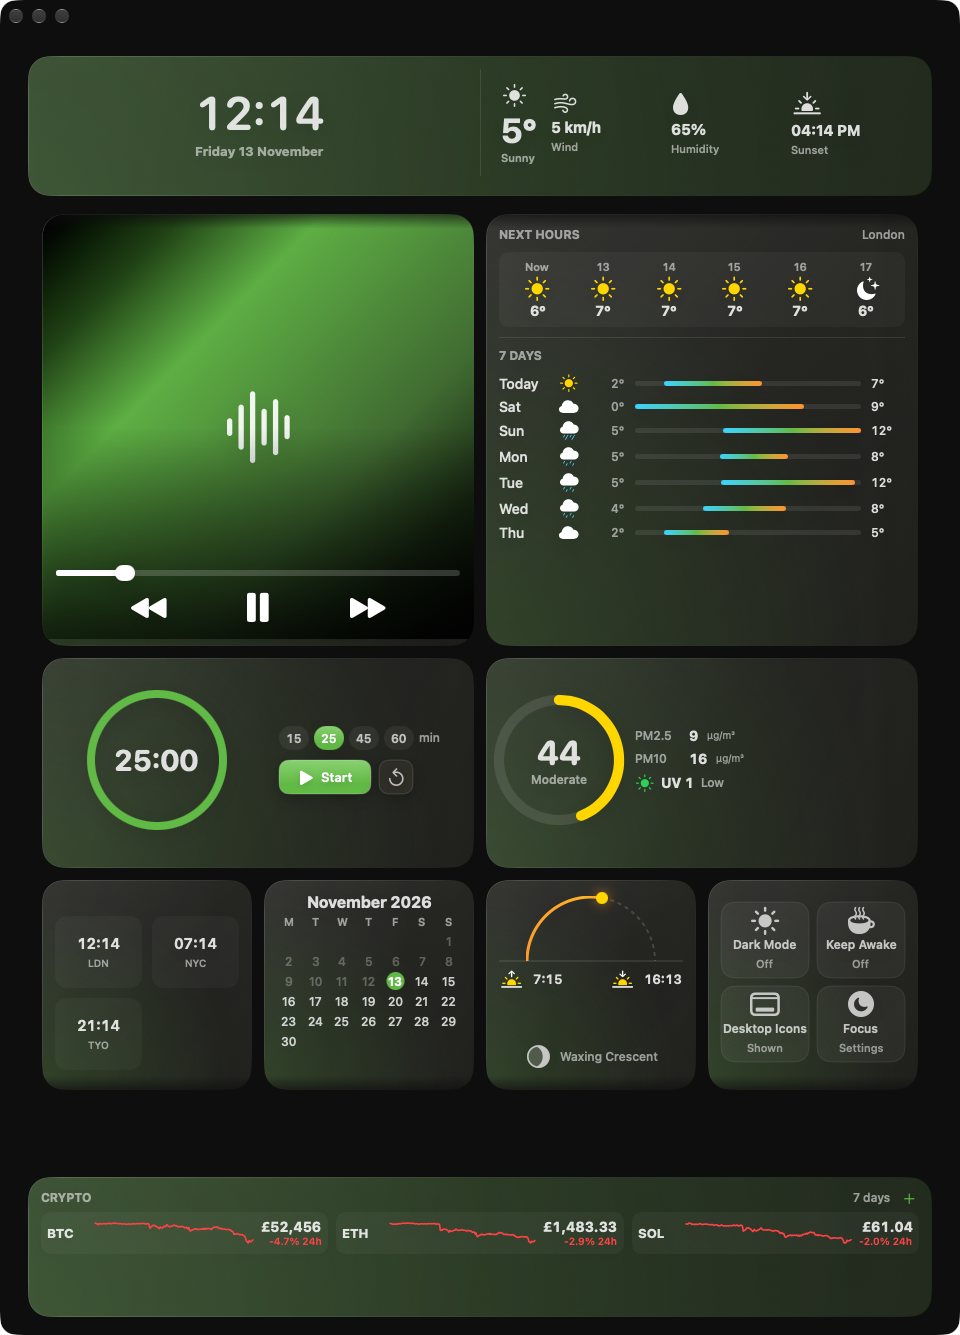
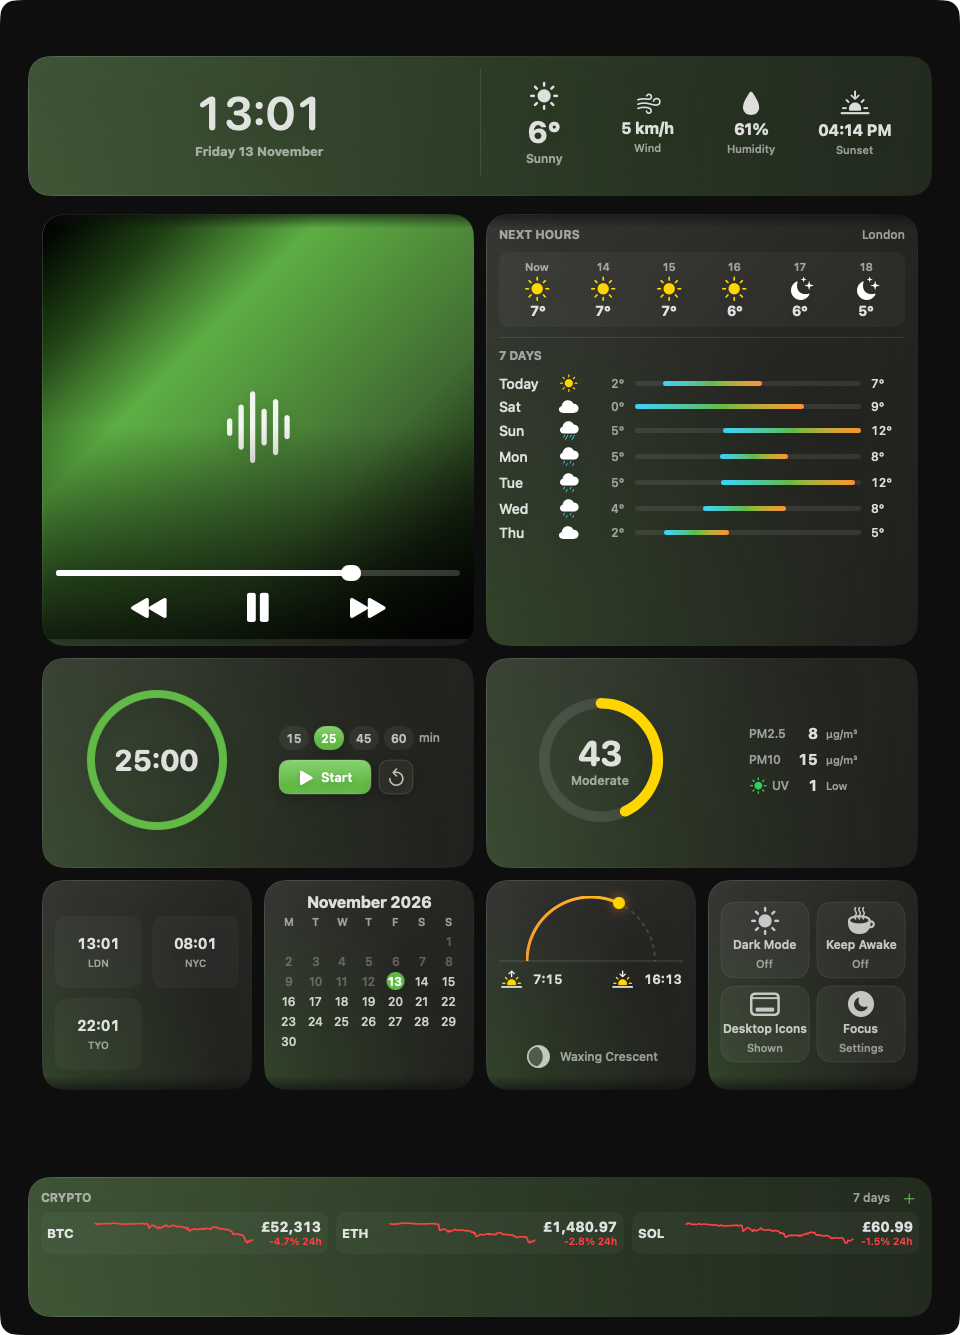
Align weather and air-quality widgets; build a universal app
- Time & Weather: evenly spaced, centred readings in the banner and 2x1
- Forecast 2x1: add the next four days instead of leaving half empty
- Air Quality: keep the ring inside its frame (it was clipped), balance
  the 2x1 halves, stack the 2x2, use three columns for the banner, and
  line up PM2.5 / PM10 / UV in one grid
- Disks 1x1: keep the free-space text inside its ring
- build-app.sh: build arm64 and x86_64 separately and merge with lipo,
  so the release runs on Intel Macs too
- README / CHANGELOG: current Gatekeeper steps (Open Anyway on macOS 15+)
  and universal-binary note; refreshed screenshots

diff --git a/Sources/NowPlayingController/MoreWidgets.swift b/Sources/NowPlayingController/MoreWidgets.swift
@@ -165,8 +165,10 @@ private struct DeckRing<Center: View>: View {
     @ViewBuilder let center: Center
     var body: some View {
         ZStack {
-            Circle().stroke(Color.primary.opacity(0.12), lineWidth: lineWidth)
-            Circle().trim(from: 0, to: max(0.002, min(1, progress)))
+            // Inset by half the line width so the whole stroke stays inside the frame
+            // (a plain stroke straddles the edge and gets clipped by the card).
+            Circle().inset(by: lineWidth / 2).stroke(Color.primary.opacity(0.12), lineWidth: lineWidth)
+            Circle().inset(by: lineWidth / 2).trim(from: 0, to: max(0.002, min(1, progress)))
                 .stroke(tint, style: StrokeStyle(lineWidth: lineWidth, lineCap: .round)).rotationEffect(.degrees(-90))
             center
         }
@@ -457,6 +459,22 @@ private struct ForecastWidget: View {
             VStack(alignment: .leading, spacing: 10) {
                 SectionLabel(text: "Next hours", trailing: model.weather.place)
                 hourlyStrip(count: size.isBanner ? 10 : 6)
+                if size == "medium" {
+                    // Fill the 2×1 card with the days ahead rather than leaving it half empty.
+                    HStack(spacing: 4) {
+                        ForEach(model.daily.dropFirst().prefix(4)) { day in
+                            HStack(spacing: 5) {
+                                Image(systemName: WeatherCode.symbol(day.code)).symbolRenderingMode(.multicolor).font(.system(size: 15))
+                                VStack(alignment: .leading, spacing: 0) {
+                                    Text(day.date.formatted(.dateTime.weekday(.abbreviated))).font(.system(size: 11, weight: .semibold)).foregroundStyle(.secondary)
+                                    Text("\(degrees(day.high)) \(degrees(day.low))").font(.system(size: 12, weight: .bold).monospacedDigit())
+                                }
+                            }
+                            .frame(maxWidth: .infinity)
+                        }
+                    }
+                    .frame(maxHeight: .infinity)
+                }
                 if size.isLarge {
                     Divider()
                     SectionLabel(text: "7 days")
@@ -555,26 +573,35 @@ private struct AirQualityWidget: View {
                 }
                 .frame(maxWidth: .infinity, maxHeight: .infinity)
             } else {
-                HStack(spacing: 16) {
-                    gauge(aqi, diameter: size.isBanner ? 92 : 120)
-                    VStack(alignment: .leading, spacing: 6) {
-                        metric("PM2.5", air.pm25, unit: "µg/m³")
-                        metric("PM10", air.pm10, unit: "µg/m³")
-                        uvRow(air.uv)
-                        if size.isLarge || size.isBanner, !air.pollen.isEmpty {
-                            HStack(spacing: 6) {
-                                ForEach(air.pollen.prefix(size.isBanner ? 3 : 4), id: \.name) { pollen in
-                                    VStack(spacing: 1) {
-                                        Text(pollen.name).font(.system(size: 10, weight: .semibold)).foregroundStyle(.secondary)
-                                        Text(pollenLevel(pollen.value)).font(.system(size: 11, weight: .bold))
-                                    }
-                                    .frame(maxWidth: .infinity).deckRow(compact: true)
-                                }
+                if size.isLarge {
+                    // 2×2: a large gauge, the readings beneath it, then pollen across the bottom.
+                    VStack(spacing: 16) {
+                        gauge(aqi, diameter: 168)
+                        readings(air)
+                        if !air.pollen.isEmpty { pollenRow(air.pollen, limit: 4) }
+                    }
+                    .frame(maxWidth: .infinity, maxHeight: .infinity)
+                } else if size.isBanner {
+                    // Banner: gauge, readings and pollen as three equal columns.
+                    HStack(spacing: 0) {
+                        gauge(aqi, diameter: 96).frame(maxWidth: .infinity)
+                        readings(air).frame(maxWidth: .infinity)
+                        if !air.pollen.isEmpty {
+                            LazyVGrid(columns: [GridItem(.flexible(), spacing: 6), GridItem(.flexible(), spacing: 6)], spacing: 6) {
+                                ForEach(air.pollen.prefix(4), id: \.name) { pollenChip($0) }
                             }
+                            .frame(maxWidth: .infinity)
                         }
                     }
+                    .frame(maxWidth: .infinity, maxHeight: .infinity)
+                } else {
+                    // 2×1: the gauge and the readings each take half the card, centred in their half.
+                    HStack(spacing: 0) {
+                        gauge(aqi, diameter: 124).frame(maxWidth: .infinity)
+                        readings(air).frame(maxWidth: .infinity)
+                    }
+                    .frame(maxWidth: .infinity, maxHeight: .infinity)
                 }
-                .frame(maxWidth: .infinity, maxHeight: .infinity)
             }
         } else {
             LoadingState(kind: "airquality", message: "Loading air quality…", failed: model.airQualityFailed)
@@ -593,12 +620,31 @@ private struct AirQualityWidget: View {
         .help("European Air Quality Index")
     }
 
-    private func metric(_ name: String, _ value: Double?, unit: String) -> some View {
-        HStack {
-            Text(name).font(DeckFont.caption).foregroundStyle(.secondary).frame(width: 46, alignment: .leading)
-            Text(value.map { "\(Int($0.rounded()))" } ?? "—").font(.system(size: 14, weight: .bold).monospacedDigit())
-            Text(unit).font(.system(size: 10)).foregroundStyle(.secondary)
-            Spacer(minLength: 0)
+    /// PM2.5, PM10 and UV in one grid, so labels, values and units line up in columns.
+    private func readings(_ air: AirQuality) -> some View {
+        let uv = air.uv ?? 0
+        let (uvName, uvColor) = Self.uvCategory(uv)
+        return Grid(alignment: .leading, horizontalSpacing: 8, verticalSpacing: 7) {
+            readingRow("PM2.5", air.pm25.map { "\(Int($0.rounded()))" } ?? "—", detail: "µg/m³")
+            readingRow("PM10", air.pm10.map { "\(Int($0.rounded()))" } ?? "—", detail: "µg/m³")
+            GridRow {
+                HStack(spacing: 4) {
+                    Image(systemName: "sun.max.fill").foregroundStyle(uvColor)
+                    Text("UV").foregroundStyle(.secondary)
+                }
+                .font(DeckFont.caption)
+                Text("\(Int(uv.rounded()))").font(.system(size: 15, weight: .bold).monospacedDigit())
+                    .gridColumnAlignment(.trailing)
+                Text(uvName).font(.system(size: 11, weight: .medium)).foregroundStyle(.secondary)
+            }
+        }
+    }
+
+    private func readingRow(_ name: String, _ value: String, detail: String) -> some View {
+        GridRow {
+            Text(name).font(DeckFont.caption).foregroundStyle(.secondary)
+            Text(value).font(.system(size: 15, weight: .bold).monospacedDigit()).gridColumnAlignment(.trailing)
+            Text(detail).font(.system(size: 11, weight: .medium)).foregroundStyle(.secondary)
         }
     }
 
@@ -610,6 +656,19 @@ private struct AirQualityWidget: View {
             Text("UV \(Int(value.rounded()))").font(.system(size: 14, weight: .bold).monospacedDigit())
             Text(name).font(DeckFont.caption).foregroundStyle(.secondary)
         }
+    }
+
+    private func pollenRow(_ pollen: [(name: String, value: Double)], limit: Int) -> some View {
+        HStack(spacing: 6) { ForEach(pollen.prefix(limit), id: \.name) { pollenChip($0) } }
+    }
+
+    private func pollenChip(_ pollen: (name: String, value: Double)) -> some View {
+        VStack(spacing: 1) {
+            Text(pollen.name).font(.system(size: 10, weight: .semibold)).foregroundStyle(.secondary)
+            Text(pollenLevel(pollen.value)).font(.system(size: 11, weight: .bold))
+        }
+        .lineLimit(1).minimumScaleFactor(0.7)
+        .frame(maxWidth: .infinity).deckRow(compact: true)
     }
 
     private func pollenLevel(_ value: Double) -> String {
@@ -1164,6 +1223,7 @@ private struct DisksWidget: View {
                         Text(ByteCountFormatter.string(fromByteCount: first.available, countStyle: .file)).font(DeckFont.number(19)).lineLimit(1).minimumScaleFactor(0.6)
                         Text("free").font(DeckFont.caption).foregroundStyle(.secondary)
                     }
+                    .padding(.horizontal, 16) // stay inside the ring
                 }
                 .frame(width: 110, height: 110)
                 Text(first.name).font(DeckFont.caption).lineLimit(1)

diff --git a/Sources/NowPlayingController/UtilityDeck.swift b/Sources/NowPlayingController/UtilityDeck.swift
@@ -722,19 +722,41 @@ struct UtilityDeck: View {
                                 .padding(.horizontal, ultraCompact ? 10 : 18)
                                 .frame(maxWidth: .infinity, maxHeight: .infinity, alignment: .center)
                             } else {
-                                HStack(spacing: 12) { VStack(alignment: .leading, spacing: 1) { Image(systemName: weatherSymbol).font(.title2); Text(weather.temperature.map { "\($0)°" } ?? "—").font(.system(size: 34, weight: .bold)); Text(weather.condition).font(.subheadline.weight(.semibold)).foregroundStyle(.secondary).lineLimit(1) }; weatherMetric("wind", weather.wind, label: "Wind"); weatherMetric("drop.fill", weather.humidity, label: "Humidity"); weatherMetric("sunset.fill", weather.sunset, label: "Sunset") }.padding(.horizontal, 20).frame(maxWidth: .infinity, maxHeight: .infinity, alignment: .center)
+                                // Four equal, centred columns so the readings are evenly spaced.
+                                HStack(spacing: 0) {
+                                    VStack(spacing: 2) {
+                                        Image(systemName: weatherSymbol).font(.system(size: 20, weight: .semibold))
+                                        Text(weather.temperature.map { "\($0)°" } ?? "—").font(.system(size: 30, weight: .bold)).lineLimit(1)
+                                        Text(weather.condition).font(.system(size: 12, weight: .semibold)).foregroundStyle(.secondary).lineLimit(1).minimumScaleFactor(0.8)
+                                    }
+                                    .frame(maxWidth: .infinity)
+                                    weatherMetricCentered("wind", weather.wind, label: "Wind")
+                                    weatherMetricCentered("drop.fill", weather.humidity, label: "Humidity")
+                                    weatherMetricCentered("sunset.fill", weather.sunset, label: "Sunset")
+                                }
+                                .padding(.horizontal, 12)
+                                .frame(maxWidth: .infinity, maxHeight: .infinity, alignment: .center)
                             }
                         }
                     }
                 } else if presentation == .wide {
                     HStack(spacing: 0) {
                         liveAnalogClock(context.date).padding(8).frame(maxWidth: .infinity, maxHeight: .infinity)
-                        VStack(alignment: .leading, spacing: 8) {
-                            Text(weather.condition).font(.title2.bold()).lineLimit(1)
-                            Text(weather.temperature.map { "\($0)°" } ?? "—").font(.title.bold())
+                        VStack(spacing: 8) {
+                            HStack(alignment: .center, spacing: 8) {
+                                Image(systemName: weatherSymbol).font(.system(size: 24, weight: .semibold))
+                                Text(weather.temperature.map { "\($0)°" } ?? "—").font(.system(size: 30, weight: .bold))
+                            }
+                            Text(weather.condition).font(.system(size: 15, weight: .semibold)).foregroundStyle(.secondary).lineLimit(1)
                             Divider()
-                            HStack { weatherMetric("wind", weather.wind, label: "Wind"); weatherMetric("drop.fill", weather.humidity, label: "Humidity"); weatherMetric("sunset.fill", weather.sunset, label: "Sunset") }
-                        }.frame(maxWidth: .infinity, maxHeight: .infinity, alignment: .leading)
+                            HStack(spacing: 0) {
+                                weatherMetricCentered("wind", weather.wind, label: "Wind")
+                                weatherMetricCentered("drop.fill", weather.humidity, label: "Humidity")
+                                weatherMetricCentered("sunset.fill", weather.sunset, label: "Sunset")
+                            }
+                        }
+                        .padding(.trailing, 6)
+                        .frame(maxWidth: .infinity, maxHeight: .infinity, alignment: .center)
                     }
                 } else if presentation == .expanded {
                     VStack(spacing: 14) {
@@ -766,8 +788,6 @@ struct UtilityDeck: View {
     private func liveAnalogClock(_ date: Date) -> some View {
         AnalogClockFace(date: date, timeZone: .current, showsTicks: true)
     }
-
-    private func weatherMetric(_ symbol: String, _ value: String, label: String? = nil) -> some View { VStack(alignment: .leading, spacing: 3) { Image(systemName: symbol).font(.system(size: 17, weight: .semibold)); Text(value).font(.system(size: 15, weight: .bold)).lineLimit(1).minimumScaleFactor(0.8); if let label { Text(label).font(.system(size: 11, weight: .medium)).foregroundStyle(.secondary) } }.frame(maxWidth: .infinity, alignment: .leading) }
 
     private func weatherMetricCentered(_ symbol: String, _ value: String, label: String) -> some View {
         VStack(spacing: 3) {

diff --git a/README.md b/README.md
@@ -28,11 +28,20 @@ SplitDeck is an open-source native macOS companion window designed to stay usefu
 
 - macOS 14 or later.
 - Xcode with the matching macOS SDK for development.
-- Apple silicon is the currently tested release target.
+- Releases are universal (Apple silicon and Intel). Apple silicon is the most tested.
 
 ## Install
 
-Download `SplitDeck-<version>-macOS.zip` from the Releases page, unzip it and move **SplitDeck.app** to Applications. The release build is ad-hoc signed rather than notarised, so the first time you open it, right-click the app and choose **Open** (or allow it in System Settings → Privacy & Security).
+1. Download `SplitDeck-<version>-macOS.zip` from the Releases page and double-click it to unzip.
+2. Move **SplitDeck.app** to your Applications folder.
+3. Open it. Xcode is not needed; the download is a ready-to-run app for Apple silicon and Intel Macs on macOS 14 or later.
+
+The app is open source and ad-hoc signed, but not notarised by Apple, so the first launch is blocked with a warning. To allow it:
+
+- **macOS 15 Sequoia and later:** try to open the app once, then go to **System Settings → Privacy & Security**, scroll to the message about SplitDeck and click **Open Anyway**. Confirm with your password.
+- **macOS 14 Sonoma:** right-click (or Control-click) the app, choose **Open**, then click **Open** in the dialog.
+
+You only need to do this once.
 
 ## Build
 

diff --git a/CHANGELOG.md b/CHANGELOG.md
@@ -20,6 +20,9 @@ Initial open-source release.
 - System, Performance, Network, Internet Speed, Public IP, Bluetooth Devices, Quick Toggles and notification badges.
 - Photo Frame, News (RSS/Atom), Hacker News, On This Day, Currency and Crypto.
 
+### Distribution
+- Universal app for Apple silicon and Intel Macs running macOS 14 or later.
+
 ### Appearance and privacy
 - Light, dark, solid, liquid-glass and artwork-derived appearances; Meeting Mode.
 - Permissions are requested only when a widget needs them. No analytics, accounts or API keys.
